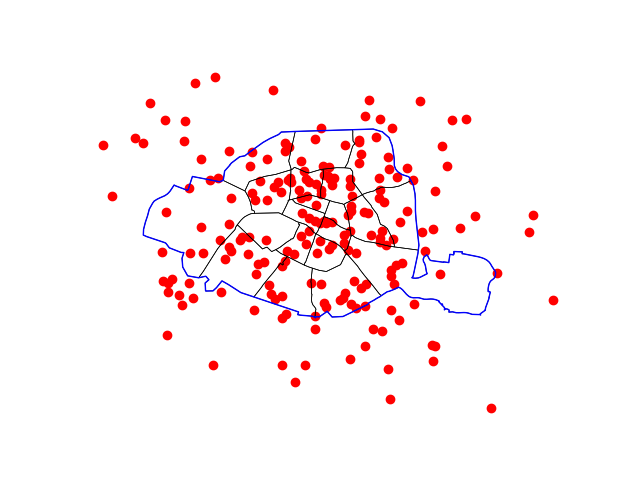
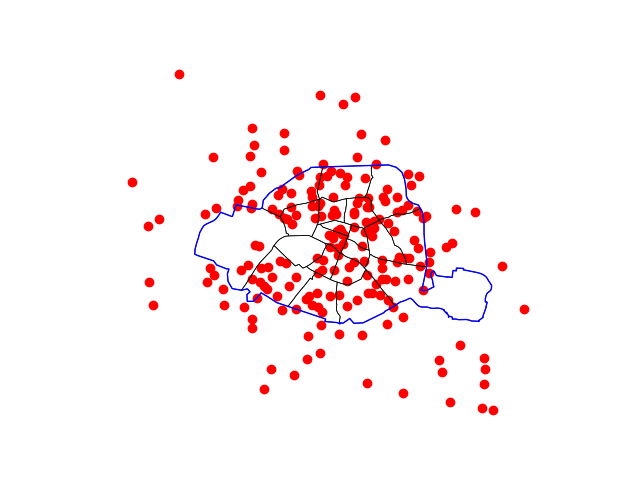
Commit avec les premiers bouts de carto en nombre d'élèves + l'import des millésimes 2019 à 2021 du recensement !

diff --git a/scripts/import_data.py b/scripts/import_data.py
@@ -29,6 +29,116 @@ effectifs_ecoles["Rentrée scolaire"].unique()
 
 #Racine https://www.insee.fr/fr/information/2008354
 
+
+#Année 2021 pour les logements en zone A (IDF) https://www.insee.fr/fr/statistiques/8268903?sommaire=8205966#consulter
+
+# Lien du fichier ZIP à télécharger
+url = "https://www.insee.fr/fr/statistiques/fichier/8268903/RP2021_logemtza.zip"
+response = requests.get(url)
+print(response)
+
+if response.status_code == 200:
+    print("Téléchargement réussi !")
+    
+    # Ouvrir le fichier ZIP depuis la mémoire (en mémoire via BytesIO)
+    with zipfile.ZipFile(BytesIO(response.content)) as zip_ref:
+        
+        # Dossier où les fichiers extraits seront placés
+        extract_folder = "extracted_files"
+        os.makedirs(extract_folder, exist_ok=True)
+        
+        # Extraire tous les fichiers dans le dossier temporaire
+        zip_ref.extractall(extract_folder)
+        
+        # Lister les fichiers extraits
+        extracted_files = os.listdir(extract_folder)
+        pop_2021 = pd.read_csv(os.path.join(extract_folder, "FD_LOGEMTZA_2020.csv"), sep = ";", header=0, encoding='UTF-8', low_memory=False)
+
+else:
+    print(f"Erreur lors du téléchargement du fichier : {response.status_code}")
+
+#['COMMUNE', 'ARM','DCETUF','AGEREV10','CSM','INPSM','NPERR']
+#mobscol_2020 = pd.read_csv(, sep = ";", nrows=100, header=0, encoding='windows-1252', low_memory=False)
+
+print(pop_2021.head(20))
+
+
+#Année 2020 pour les logements en zone A (IDF) https://www.insee.fr/fr/statistiques/7705908?sommaire=7637890
+
+# Lien du fichier ZIP à télécharger
+url = "https://www.insee.fr/fr/statistiques/fichier/7705908/RP2020_LOGEMTZA_csv.zip"
+response = requests.get(url)
+print(response)
+
+if response.status_code == 200:
+    print("Téléchargement réussi !")
+    
+    # Ouvrir le fichier ZIP depuis la mémoire (en mémoire via BytesIO)
+    with zipfile.ZipFile(BytesIO(response.content)) as zip_ref:
+        
+        # Dossier où les fichiers extraits seront placés
+        extract_folder = "extracted_files"
+        os.makedirs(extract_folder, exist_ok=True)
+        
+        # Extraire tous les fichiers dans le dossier temporaire
+        zip_ref.extractall(extract_folder)
+        
+        # Lister les fichiers extraits
+        extracted_files = os.listdir(extract_folder)
+        pop_2020 = pd.read_csv(os.path.join(extract_folder, "FD_LOGEMTZA_2020.csv"), sep = ";", header=0, encoding='UTF-8', low_memory=False)
+
+else:
+    print(f"Erreur lors du téléchargement du fichier : {response.status_code}")
+
+#['COMMUNE', 'ARM','DCETUF','AGEREV10','CSM','INPSM','NPERR']
+#mobscol_2020 = pd.read_csv(, sep = ";", nrows=100, header=0, encoding='windows-1252', low_memory=False)
+
+print(pop_2020.head(20))
+
+
+
+
+#Année 2019 pour les logements en zone A (IDF) https://www.insee.fr/fr/statistiques/6544344?sommaire=6456104
+
+# Lien du fichier ZIP à télécharger
+url = "https://www.insee.fr/fr/statistiques/fichier/6544344/RP2019_LOGEMTZA_csv.zip"
+response = requests.get(url)
+print(response)
+
+if response.status_code == 200:
+    print("Téléchargement réussi !")
+    
+    # Ouvrir le fichier ZIP depuis la mémoire (en mémoire via BytesIO)
+    with zipfile.ZipFile(BytesIO(response.content)) as zip_ref:
+        
+        # Dossier où les fichiers extraits seront placés
+        extract_folder = "extracted_files"
+        os.makedirs(extract_folder, exist_ok=True)
+        
+        # Extraire tous les fichiers dans le dossier temporaire
+        zip_ref.extractall(extract_folder)
+        
+        # Lister les fichiers extraits
+        extracted_files = os.listdir(extract_folder)
+        pop_2019 = pd.read_csv(os.path.join(extract_folder, "FD_LOGEMTZA_2019.csv"), sep = ";", header=0, encoding='UTF-8', low_memory=False)
+
+else:
+    print(f"Erreur lors du téléchargement du fichier : {response.status_code}")
+
+#['COMMUNE', 'ARM','DCETUF','AGEREV10','CSM','INPSM','NPERR']
+#mobscol_2020 = pd.read_csv(, sep = ";", nrows=100, header=0, encoding='windows-1252', low_memory=False)
+
+print(pop_2019.head(20))
+
+
+
+
+
+
+
+
+
+
 #Fichiers des mobilités scolaires 
 
 #Millésime 2020 https://www.insee.fr/fr/statistiques/7637890

diff --git a/scripts/stats_descr.py b/scripts/stats_descr.py
@@ -1,7 +1,17 @@
+#==== attention liste des modulesà installer dans son BASH
+#pip install unidecode
+#pip install py7zr geopandas openpyxl tqdm s3fs 
+#pip install PyYAML xlrd
+#pip install git+https://github.com/inseefrlab/cartiflette
+#pip install urllib3==1.26.5 #cartiflette nécessite une version de urllib3 antérieure à la deuxième, il faut donc installer une ancienne version.
+
 import matplotlib.pyplot as plt
 import numpy as np
-from unidecode import unidecode #dans le bash pip install unidecode
+from unidecode import unidecode 
 import matplotlib.ticker as mticker
+import geopandas as gpd
+from cartiflette import carti_download
+
 
 # Base de données effectifs_ecoles ---------
 ## Ne garde que les rentrées scolaires 2019, 2020, 2021 et Paris (via le code postal)
@@ -45,6 +55,8 @@ pivot_df['evolution_2019_2020'] = ((pivot_df[2020] - pivot_df[2019]) / pivot_df[
 pivot_df['evolution_2020_2021'] = ((pivot_df[2021] - pivot_df[2020]) / pivot_df[2020]) * 100
 pivot_df['proportion_2019_2020'] = pivot_df['evolution_2019_2020'] / pivot_df['evolution_total']
 pivot_df['proportion_2020_2021'] = pivot_df['evolution_2020_2021'] / pivot_df['evolution_total']
+pivot_df['evolution_total_niveau'] = (pivot_df[2021] - pivot_df[2019]) 
+pivot_df['INSEE_COG'] = (pivot_df.index.astype(int)+ 100).astype(str)
 pivot_df.index = pivot_df.index.astype(str)
 
 
@@ -116,59 +128,40 @@ plt.savefig("/home/onyxia/work/Projet-Python-evolution-des-ecoles-par-arrondisse
 
 
 #=============== Cartographie
-# Dans son bash : pip install cartiflette
 
-import geopandas as gpd
-from cartiflette import carti_download
-
-# 1. Fonds communaux
-contours_villes_arrt = carti_download(
-    values=["75"],
+petite_couronne = carti_download(
     crs=4326,
+    values=["75", "92", "93", "94"],
     borders="COMMUNE_ARRONDISSEMENT",
+    vectorfile_format="geojson",
     filter_by="DEPARTEMENT",
     source="EXPRESS-COG-CARTO-TERRITOIRE",
     year=2022,
 )
 
-# 2. Départements
-departements = contours_villes_arrt.dissolve("INSEE_DEP")
+petite_couronne.crs
+petite_couronne = petite_couronne.to_crs(2154)
+petite_couronne.crs
 
-departements['INSEE_COM'].unique()
 
 
-velib_data = "https://opendata.paris.fr/explore/dataset/velib-emplacement-des-stations/download/?format=geojson&timezone=Europe/Berlin&lang=fr"
-stations = gpd.read_file(velib_data)
-stations.head(20)
+petite_couronne_count = petite_couronne.merge(pivot_df).to_crs(2154)
 
-ax = stations.sample(200).plot(color="red")
-contours_villes_arrt.boundary.plot(ax=ax, edgecolor="k", linewidth=0.5)
-departements.boundary.plot(ax=ax, edgecolor="blue", linewidth=1)
-ax.set_axis_off()
+#Evol en niveau
 
-plt.savefig("/home/onyxia/work/Projet-Python-evolution-des-ecoles-par-arrondissement-dans-Paris-entre-2019-et-2022/test.png")
+aplat = petite_couronne_count.plot(column="evolution_total_niveau", cmap="Reds_r", legend=True)
+aplat.set_axis_off()
+aplat.set_title("Evolution du nombre d'élèves entre 2019 et 2021, par arrondissement (en milliers)",y=1.0, pad=14)
+aplat
 
-from cartiflette import carti_map
+plt.savefig("/home/onyxia/work/Projet-Python-evolution-des-ecoles-par-arrondissement-dans-Paris-entre-2019-et-2022/testt.png")
 
-carti_map(
-    geo=contours_villes_arrt,
-    df=pivot_df,
-    id_geo='id',
-    id_data='code_postal',
-    column='evolution_total',
-    legend=True,
-    palette='Blues',        # Palette de couleurs
-    title='test'
-)
-import cartiflette
-print(dir(cartiflette))
 
-plt.savefig("/home/onyxia/work/Projet-Python-evolution-des-ecoles-par-arrondissement-dans-Paris-entre-2019-et-2022/testZ.png")
+#evol en %
 
-import geopandas as gpd
-import matplotlib.pyplot as plt
+aplat = petite_couronne_count.plot(column="evolution_total", cmap="Reds_r", legend=True)
+aplat.set_axis_off()
+aplat.set_title("Evolution du nombre d'élèves entre 2019 et 2021, par arrondissement (en %)",y=1.0, pad=-14)
+aplat
 
-geo_paris = gpd.read_file("paris.geojson")
-
-# Visualiser les données avec une colonne spécifique
-geo_paris.plot(column='population', legend=True, cmap='Blues')
+plt.savefig("/home/onyxia/work/Projet-Python-evolution-des-ecoles-par-arrondissement-dans-Paris-entre-2019-et-2022/test5.png")
